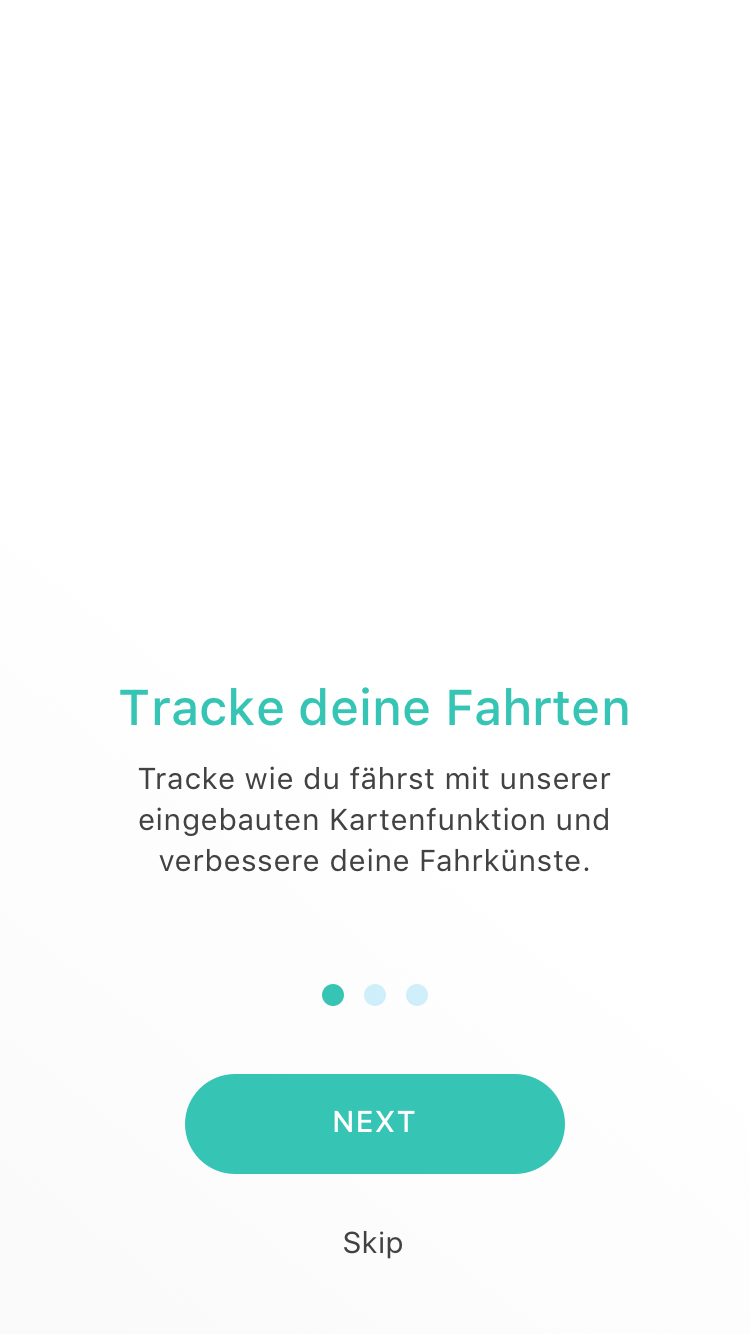
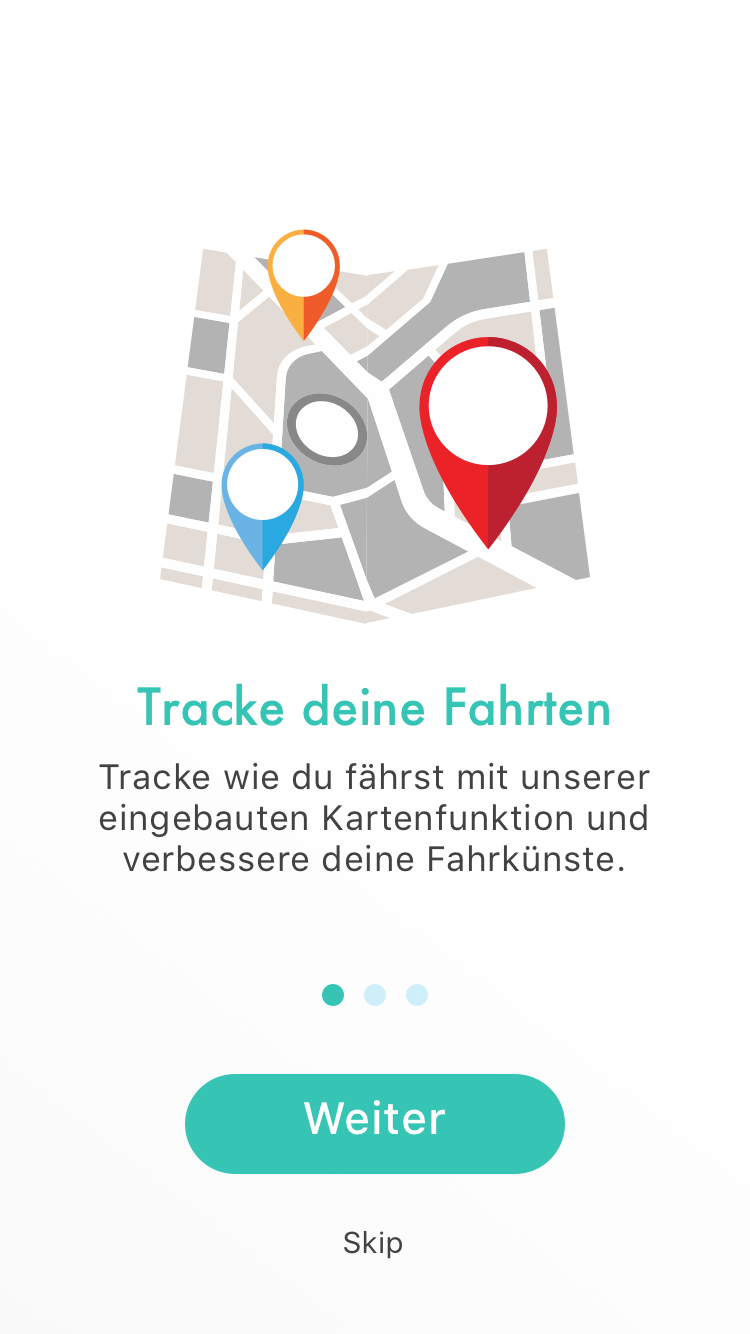
updated start screens

diff --git a/src/components/layout.js b/src/components/layout.js
@@ -4,12 +4,12 @@ const start = require('./start')
 const homeIcon = require('../img/tabs/Home.png')
 const journeyIcon = require('../img/tabs/Journey.png')
 const scoresIcon = require('../img/tabs/Scores.png')
-const rewardsIcon = require('../img/tabs/Rewards.png')
+// const rewardsIcon = require('../img/tabs/Rewards.png')
 const profileIcon = require('../img/tabs/Profile.png')
 const homeIcon_b = require('../img/tabs/Home_blue.png')
 const journeyIcon_b = require('../img/tabs/Journey_blue.png')
 const scoresIcon_b = require('../img/tabs/Scores_blue.png')
-const rewardsIcon_b = require('../img/tabs/Rewards_blue.png')
+// const rewardsIcon_b = require('../img/tabs/Rewards_blue.png')
 const profileIcon_b = require('../img/tabs/Profile_blue.png')
 
 const wrapPage = (View) => (state, emit) => {
@@ -37,7 +37,7 @@ const wrapPage = (View) => (state, emit) => {
         </a>
         <a class="tab-item ${(['scores', 'scores/leaderboard'].indexOf(state.route) >= 0) ? 'active' : ''}" href="/scores">
           <img src="${(['scores', 'scores/leaderboard'].indexOf(state.route) >= 0) ? scoresIcon_b : scoresIcon}" alt="" width="25" height="25" class="icon">
-          <span class="tab-label">Scores</span>
+          <span class="tab-label">Score</span>
         </a>
         <a class="tab-item ${state.route === 'profile' ? 'active' : ''}" href="/profile">
           <img src="${state.route === 'profile' ? profileIcon_b : profileIcon }" alt="" width="25" height="25" class="icon">

diff --git a/src/components/leaderboard.js b/src/components/leaderboard.js
@@ -8,6 +8,8 @@ module.exports = function renderScores (state, emit) {
       <a class="control-item active" href="/scores/leaderboard">Leaderboard</a>
     </div>
 
+    <div><strong>Prima.</strong> Du bist aktuell auf dem 2. Platz in Hannover.</div>
+
     <div class="rised-card space-top">
       <div class="text-center card-header">
         Leaderboard
@@ -17,13 +19,13 @@ module.exports = function renderScores (state, emit) {
       <li class="table-view-cell ">
         <a class="">
             <strong>1.</strong> John Doe
-            <span class="badge badge-primary pull-right">94/100 pts</span>
+            <span class="badge pull-right">94/100 pts</span>
         </a>
       </li>
       <li class="table-view-cell ">
         <a class="">
             <strong>2.</strong> Andrej Fritz
-            <span class="badge badge-positive pull-right">90/100 pts</span>
+            <span class="badge badge-primary pull-right">90/100 pts</span>
         </a>
       </li>
       <li class="table-view-cell ">

diff --git a/src/components/start.js b/src/components/start.js
@@ -1,7 +1,7 @@
 const html = require('choo/html')
 const onboarding1 = require('../img/Onboarding-1.png')
-const onboarding2 = require('../img/Onboarding-2.jpg')
-const onboarding3 = require('../img/Onboarding-3.jpg')
+const onboarding2 = require('../img/Onboarding-2.png')
+const onboarding3 = require('../img/Onboarding-3.png')
 
 module.exports = function renderStart (state, emit) {
   const one = html`<div id="ss-1" style="background-image: url(${onboarding1});" class="splash animated bounceInRight" onclick=${() => emit('nextStartStep')}></div>`

diff --git a/src/components/scores.js b/src/components/scores.js
@@ -7,8 +7,9 @@ module.exports = function renderScores (state, emit) {
       <a class="control-item active" href="/scores">Your score</a>
       <a class="control-item" href="/scores/leaderboard">Leaderboard</a>
     </div>
+    
+    <div><strong>Prima.</strong> Du bist aktuell auf dem 2. Platz in Hannover.</div>
 
-    <h3>Prima - du bist aktuell auf dem 2. Platz!</h3>
 
     <div class="rised-card space-top">
       <div class="text-center card-header">
